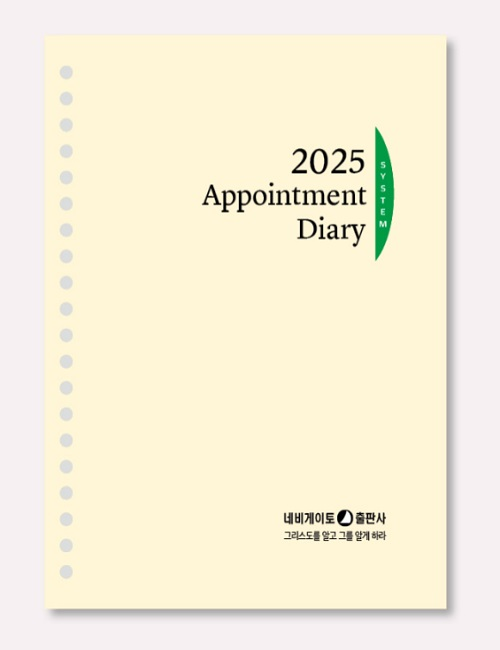
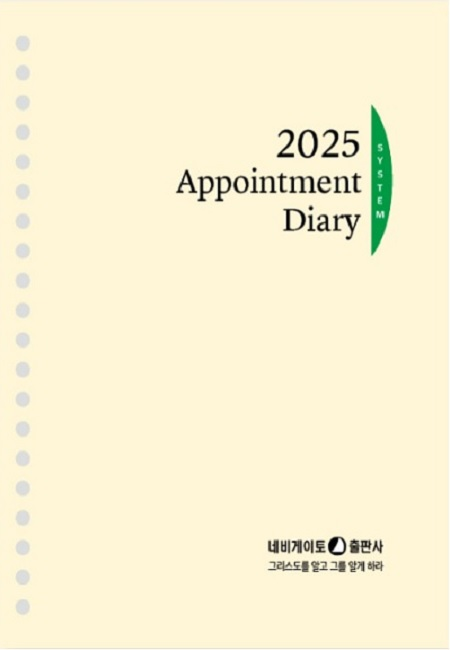
서브페이지: 도서목록

diff --git a/booklist.html b/booklist.html
@@ -602,11 +602,13 @@
                                         <div class="single-product">
                                             <div class="product-image">
                                                 <img src="images/products/book-0.jpg" alt="#">
-                                                <div class="button">
+                                                 <!-- <div class="button">
                                                     <a href="#" class="btn"><i
                                                             class="lni lni-cart"></i> Add to Cart</a>
-                                                </div>
+                                                </div> -->
+                                                
                                             </div>
+                                           
                                             <div class="product-info">
                                                 <span class="category">성경공부</span>
                                                 <h4 class="title">
@@ -632,12 +634,12 @@
                                         <!-- Start Single Product -->
                                         <div class="single-product">
                                             <div class="product-image">
-                                                <img src="images/products/book-AA02.jpg" alt="#">
-                                                <span class="sale-tag">신간</span>
-                                                <div class="button">
+                                                <img src="images/products/book-1.jpg" alt="#">
+                                                <!-- <span class="sale-tag">신간</span> -->
+                                                <!-- <div class="button">
                                                     <a href="#" class="btn"><i
                                                             class="lni lni-cart"></i> Add to Cart</a>
-                                                </div>
+                                                </div> -->
                                             </div>
                                             <div class="product-info">
                                                 <span class="category">성경공부</span>
@@ -665,10 +667,10 @@
                                         <div class="single-product">
                                             <div class="product-image">
                                                 <img src="images/products/book-3.jpg" alt="#">
-                                                <div class="button">
+                                                <!-- <div class="button">
                                                     <a href="#" class="btn"><i
                                                             class="lni lni-cart"></i> Add to Cart</a>
-                                                </div>
+                                                </div> -->
                                             </div>
                                             <div class="product-info">
                                                 <span class="category">바인터&용품</span>
@@ -695,10 +697,10 @@
                                         <div class="single-product">
                                             <div class="product-image">
                                                 <img src="images/products/book-3.jpg" alt="#">
-                                                <div class="button">
+                                                <!-- <div class="button">
                                                     <a href="#" class="btn"><i
                                                             class="lni lni-cart"></i> Add to Cart</a>
-                                                </div>
+                                                </div> -->
                                             </div>
                                             <div class="product-info">
                                                 <span class="category">바인터&용품</span>
@@ -725,10 +727,10 @@
                                         <div class="single-product">
                                             <div class="product-image">
                                                 <img src="images/products/book-5.jpg" alt="#">
-                                                <div class="button">
+                                                <!-- <div class="button">
                                                     <a href="#" class="btn"><i
                                                             class="lni lni-cart"></i> Add to Cart</a>
-                                                </div>
+                                                </div> -->
                                             </div>
                                             <div class="product-info">
                                                 <span class="category">단행본</span>
@@ -755,10 +757,10 @@
                                         <div class="single-product">
                                             <div class="product-image">
                                                 <img src="images/products/book-6.jpg" alt="#">
-                                                <div class="button">
+                                                <!-- <div class="button">
                                                     <a href="#" class="btn"><i
                                                             class="lni lni-cart"></i> Add to Cart</a>
-                                                </div>
+                                                </div> -->
                                             </div>
                                             <div class="product-info">
                                                 <span class="category">바인더&용품</span>
@@ -786,10 +788,10 @@
                                             <div class="product-image">
                                                 <img src="images/products/book-7.jpg" alt="#">
                                                 <span class="sale-tag">신간</span>
-                                                <div class="button">
+                                                <!-- <div class="button">
                                                     <a href="#" class="btn"><i
                                                             class="lni lni-cart"></i> Add to Cart</a>
-                                                </div>
+                                                </div> -->
                                             </div>
                                             <div class="product-info">
                                                 <span class="category">바인더&용품</span>
@@ -817,10 +819,10 @@
                                         <div class="single-product">
                                             <div class="product-image">
                                                 <img src="images/products/book-3.jpg" alt="#">
-                                                <div class="button">
+                                                <!-- <div class="button">
                                                     <a href="#" class="btn"><i
                                                             class="lni lni-cart"></i> Add to Cart</a>
-                                                </div>
+                                                </div> -->
                                             </div>
                                             <div class="product-info">
                                                 <span class="category">바인더&용품</span>
@@ -848,10 +850,10 @@
                                             <div class="product-image">
                                                 <img src="images/products/book-9.jpg" alt="#">
                                                 <span class="sale-tag">신간</span>
-                                                <div class="button">
+                                                <!-- <div class="button">
                                                     <a href="#" class="btn"><i
                                                             class="lni lni-cart"></i> Add to Cart</a>
-                                                </div>
+                                                </div> -->
                                             </div>
                                             <div class="product-info">
                                                 <span class="category">단행본</span>
@@ -905,11 +907,11 @@
                                                 <div class="col-lg-4 col-md-4 col-12">
                                                     <div class="product-image">
                                                         <img src="images/products/book-0.jpg" alt="#">
-                                                        <div class="button">
+                                                        <!-- <div class="button">
                                                             <a href="#" class="btn"><i
                                                                     class="lni lni-cart"></i> Add to
                                                                 Cart</a>
-                                                        </div>
+                                                        </div> -->
                                                     </div>
                                                 </div>
                                                 <div class="col-lg-8 col-md-8 col-12">
@@ -941,13 +943,13 @@
                                             <div class="row align-items-center">
                                                 <div class="col-lg-4 col-md-4 col-12">
                                                     <div class="product-image">
-                                                        <img src="images/products/book-AA02.jpg" alt="#">
+                                                        <img src="images/products/book-1.jpg" alt="#">
                                                         <!-- <span class="sale-tag">신간</span> -->
-                                                        <div class="button">
+                                                        <!-- <div class="button">
                                                             <a href="#" class="btn"><i
                                                                     class="lni lni-cart"></i> Add to
                                                                 Cart</a>
-                                                        </div>
+                                                        </div> -->
                                                     </div>
                                                 </div>
                                                 <div class="col-lg-8 col-md-8 col-12">
@@ -981,11 +983,11 @@
                                                 <div class="col-lg-4 col-md-4 col-12">
                                                     <div class="product-image">
                                                         <img src="images/products/book-3.jpg" alt="#">
-                                                        <div class="button">
+                                                        <!-- <div class="button">
                                                             <a href="#" class="btn"><i
                                                                     class="lni lni-cart"></i> Add to
                                                                 Cart</a>
-                                                        </div>
+                                                        </div> -->
                                                     </div>
                                                 </div>
                                                 <div class="col-lg-8 col-md-8 col-12">
@@ -1019,11 +1021,11 @@
                                                     <div class="product-image">
                                                         <img src="images/products/book-3.jpg" alt="#">
                                                         <span class="new-tag">New</span>
-                                                        <div class="button">
+                                                        <!-- <div class="button">
                                                             <a href="#" class="btn"><i
                                                                     class="lni lni-cart"></i> Add to
                                                                 Cart</a>
-                                                        </div>
+                                                        </div> -->
                                                     </div>
                                                 </div>
                                                 <div class="col-lg-8 col-md-8 col-12">
@@ -1057,11 +1059,11 @@
                                                     <div class="product-image">
                                                         <img src="images/products/book-5.jpg" alt="#">
                                                         <span class="sale-tag">신간</span>
-                                                        <div class="button">
+                                                        <!-- <div class="button">
                                                             <a href="#" class="btn"><i
                                                                     class="lni lni-cart"></i> Add to
                                                                 Cart</a>
-                                                        </div>
+                                                        </div> -->
                                                     </div>
                                                 </div>
                                                 <div class="col-lg-8 col-md-8 col-12">

diff --git a/css/main.css b/css/main.css
@@ -3316,6 +3316,12 @@ top: 2px;
 .single-product .product-image {
   overflow: hidden;
   position: relative;
+
+  background-color: #FBF5F7;    /* 여백 색상 */
+  padding: 30px 5px;              /* 원하는 여백 크기로 조절 (예: 10px) */
+  display: flex;                  /* 플렉스 가운데 정렬 */
+  justify-content: center;
+  align-items: center;
 }
 
 .single-product .product-image .sale-tag {
@@ -3370,9 +3376,11 @@ top: 2px;
 }
 
 .single-product .product-image img {
-  width: 100%;
+  width: 75%; /* 이미지 크기 추가 */
+  height: auto; /* 이미지 크기 추가 */
   -webkit-transition: all 0.4s ease;
   transition: all 0.4s ease;
+  box-shadow: 2px 3px 5px 0px;  /* 이미지 그림자 추가 */
 }
 
 .single-product:hover .product-image .button {
